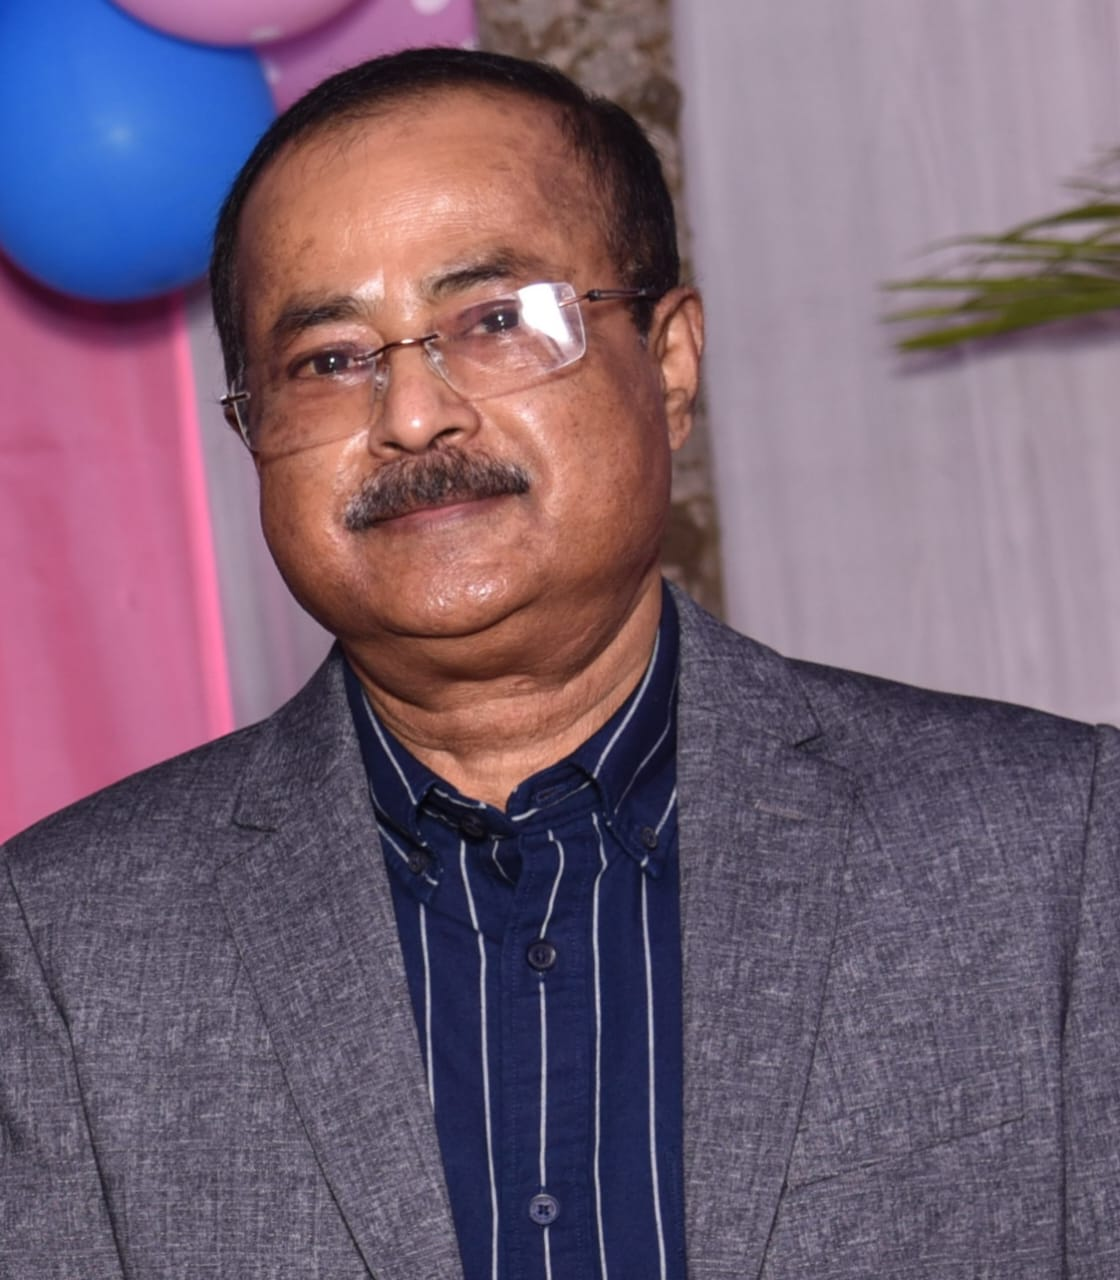
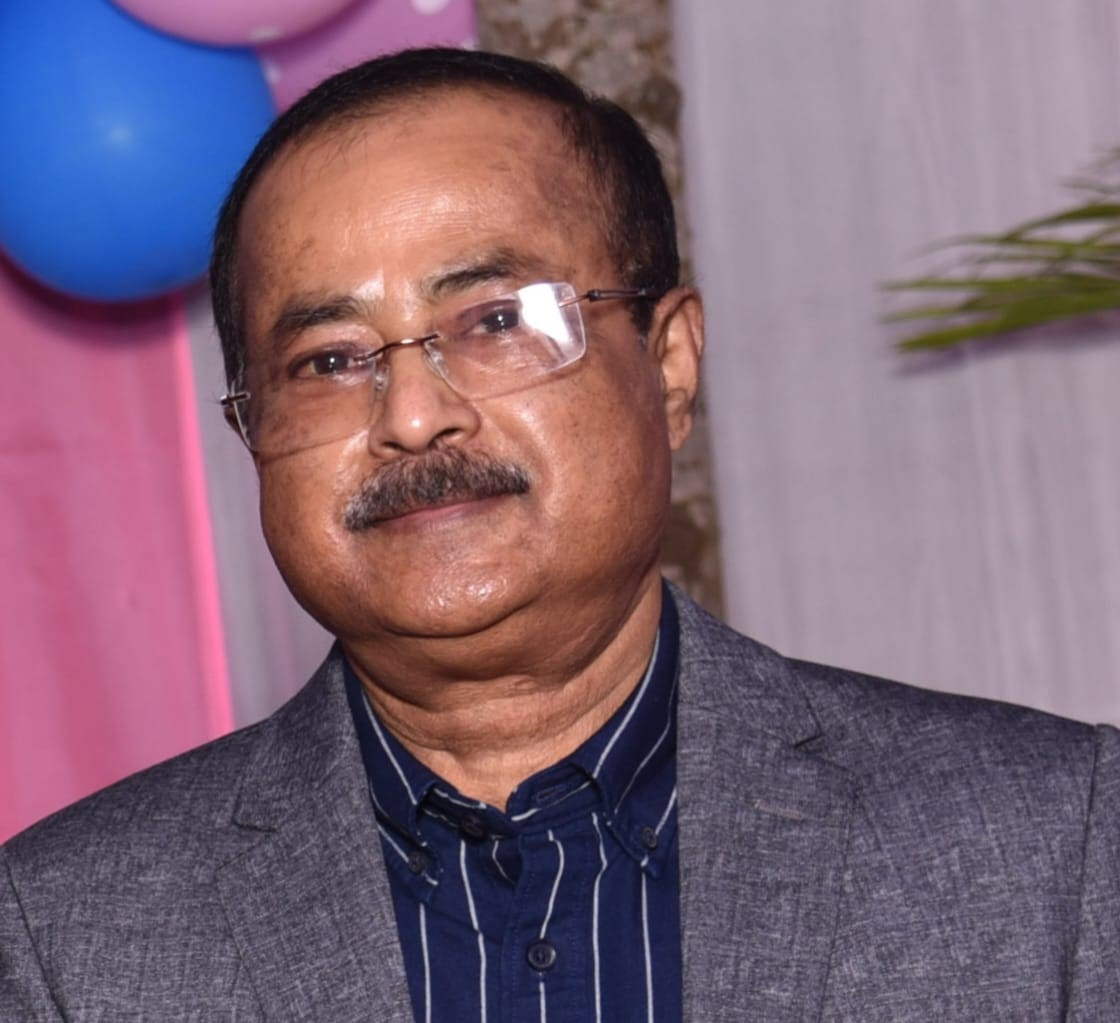
Image adjustment

diff --git a/src/Components/House.tsx b/src/Components/House.tsx
@@ -20,7 +20,6 @@ const House = ({ img, vision, name }: IProps) => {
     margin: "0 auto",
     padding: theme.spacing(2),
     boxShadow: "0 4px 8px rgba(0, 0, 0, 0.1)",
-
     height: "26em",
 
     transition: "all 0.3s ease-in-out",
@@ -73,7 +72,12 @@ const House = ({ img, vision, name }: IProps) => {
             <img
               src={img}
               alt="housePhoto"
-              style={{ width: "6em", height: "6em", borderRadius: "50%" }}
+              style={{
+                width: "6em",
+                height: "6em",
+                borderRadius: "50%",
+                objectFit: "cover",
+              }}
             />
           </ImgContainer>
         </Box>
